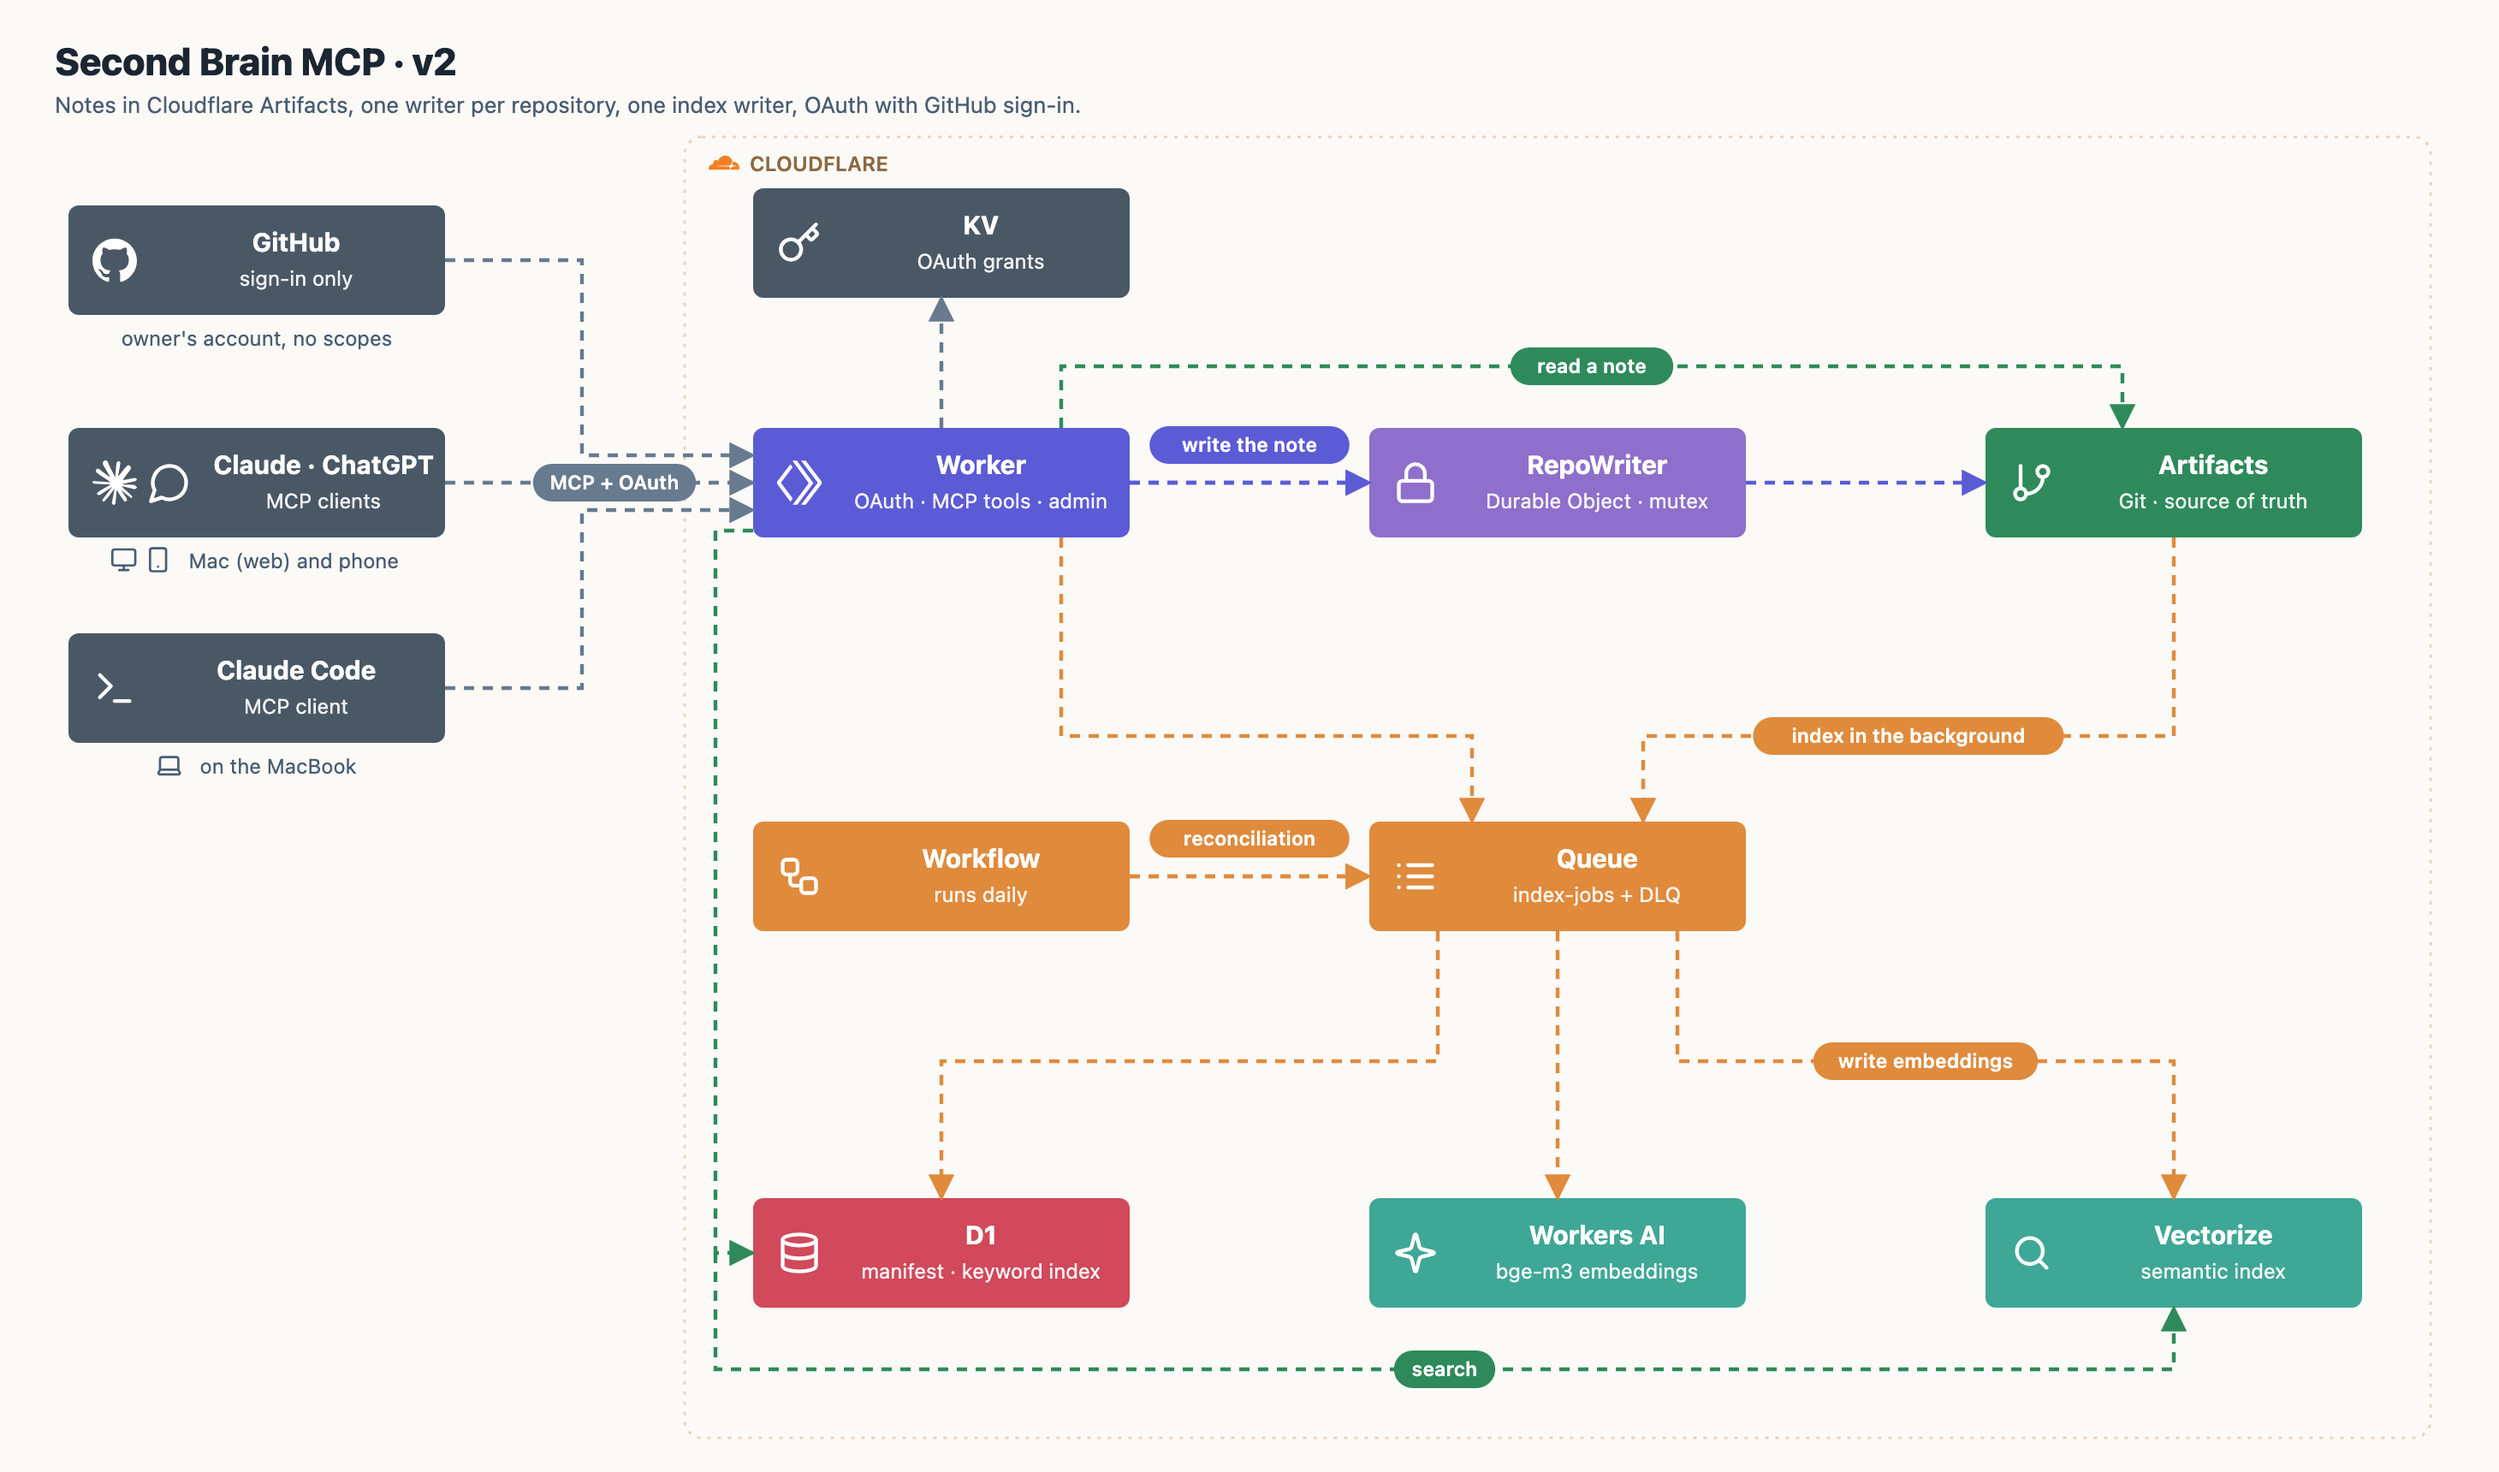
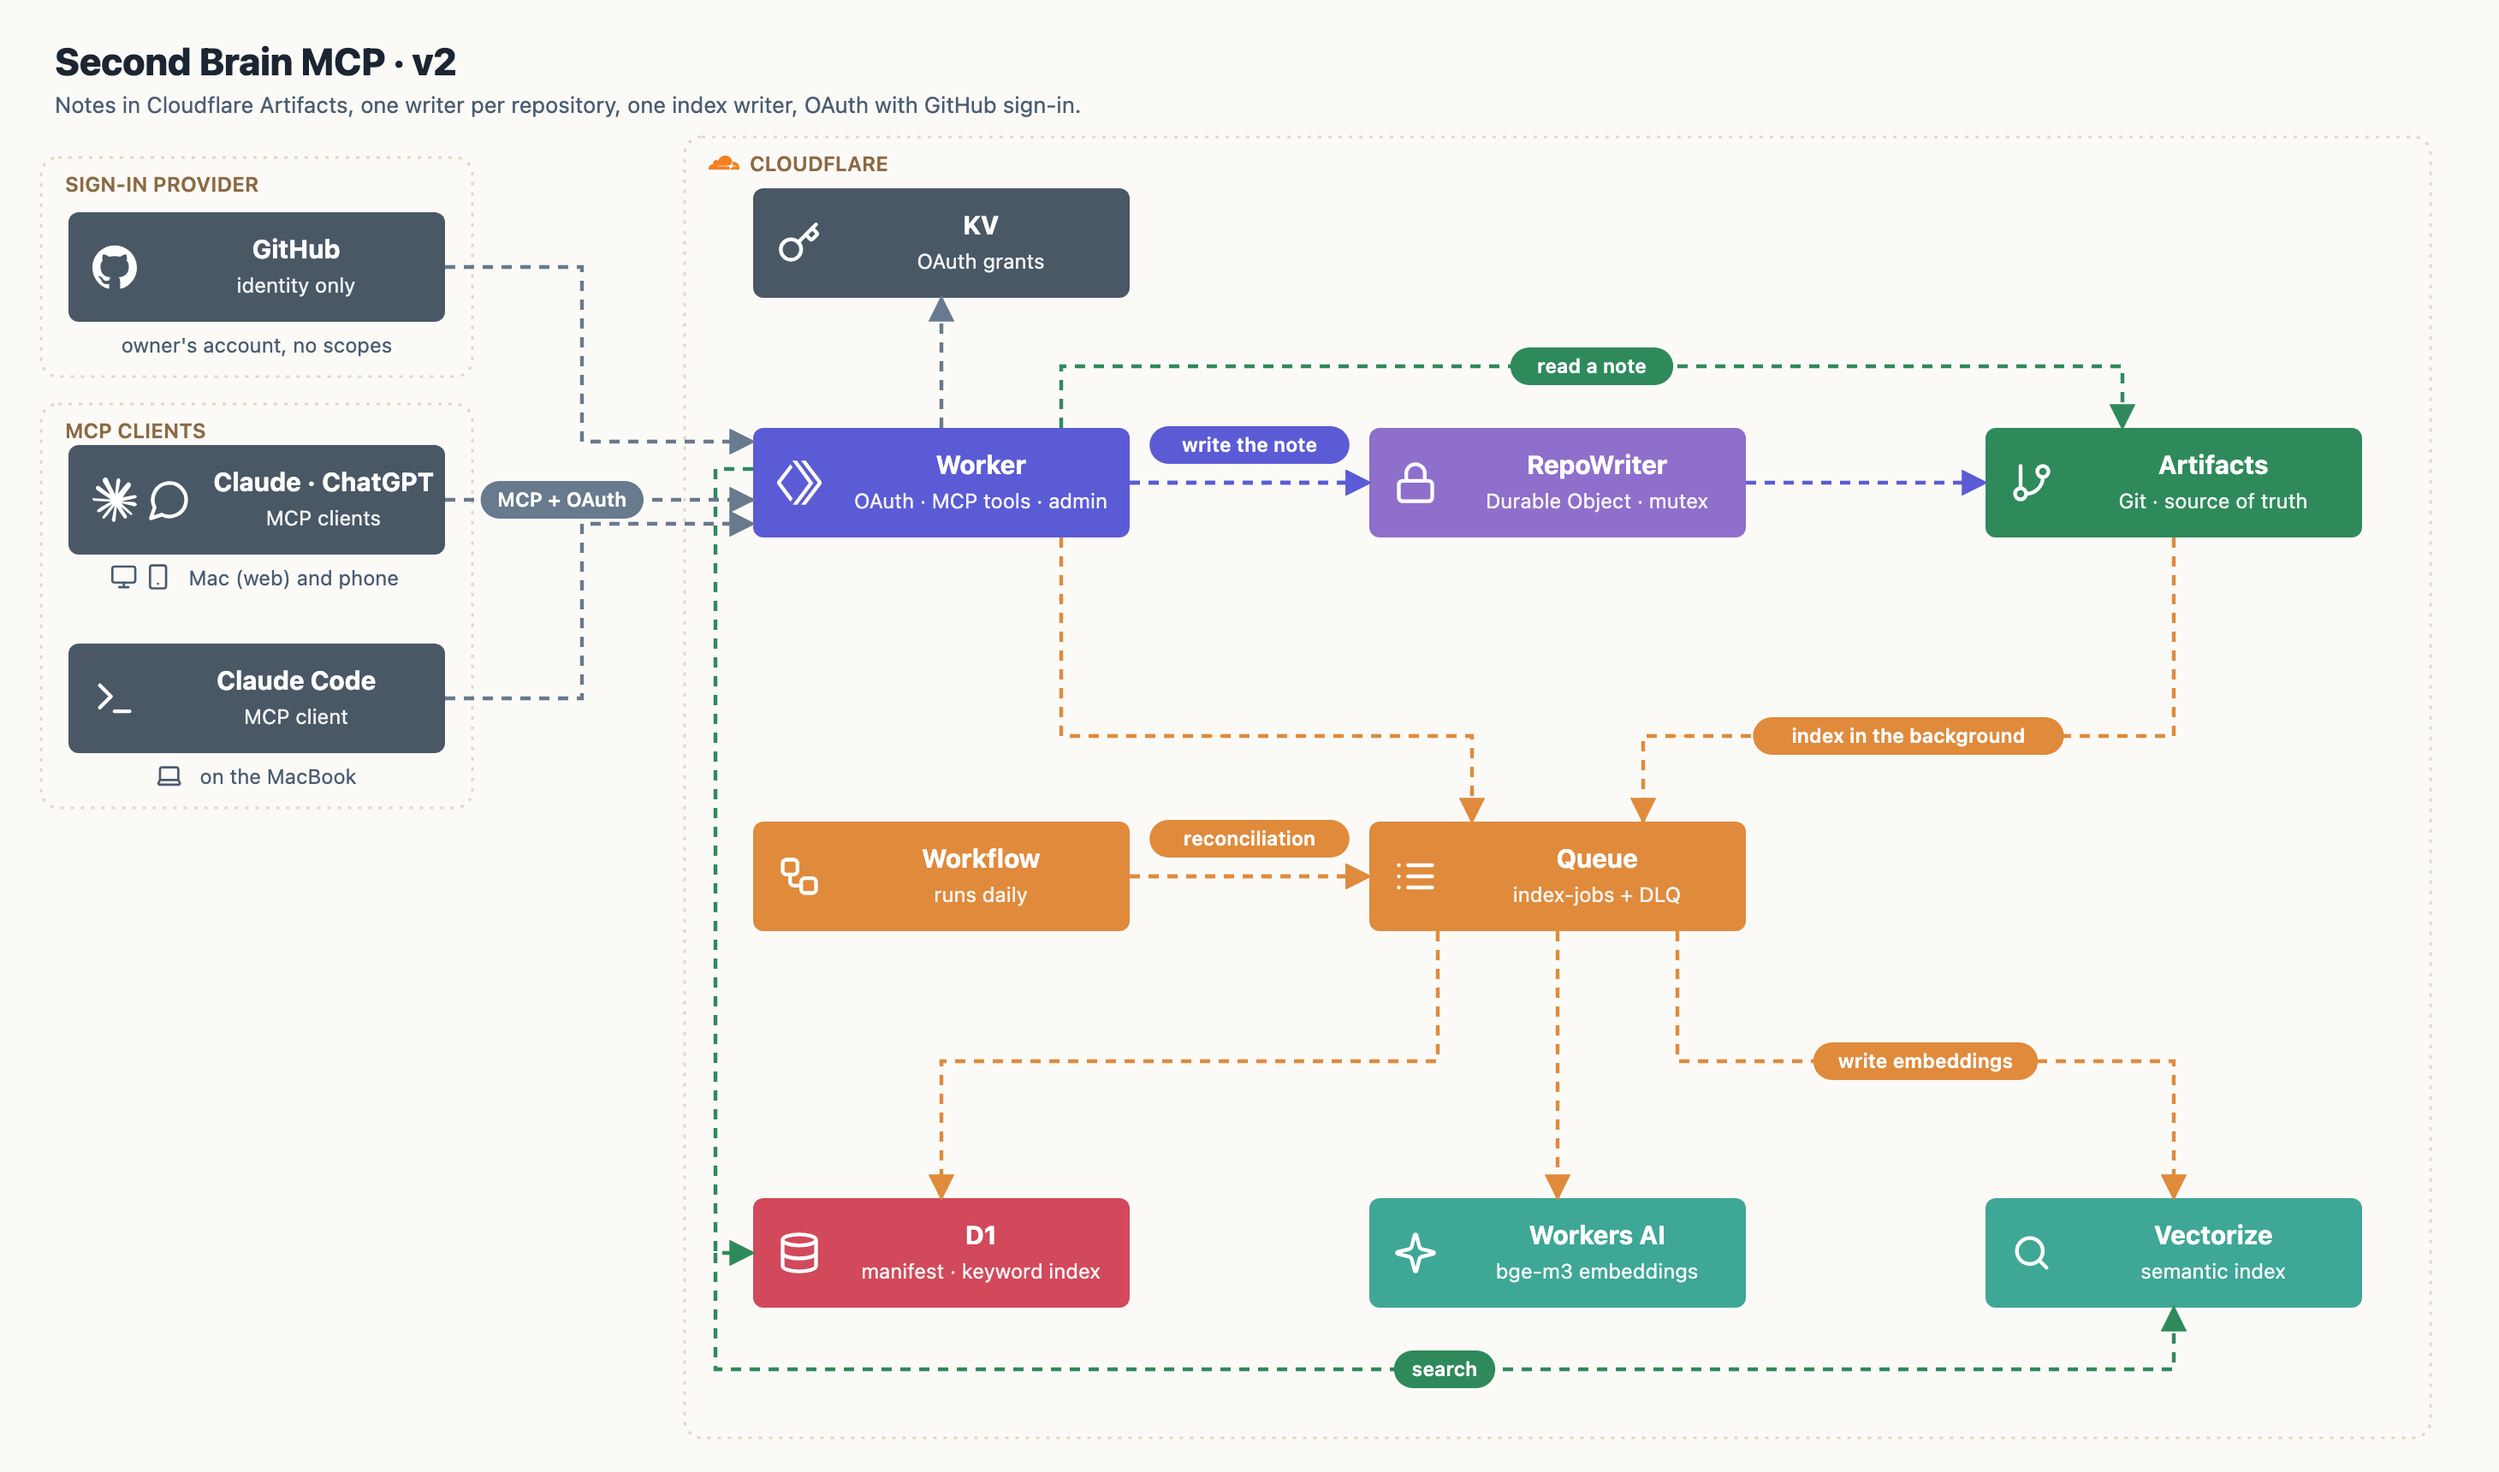
Architecture v2: GitHub apart from the MCP clients as the sign-in provider
Claude-Session: https://claude.ai/code/session_0171UdtAm1pRxwuhTFhKDhrM

diff --git a/docs/architecture/draw.py b/docs/architecture/draw.py
@@ -122,9 +122,12 @@ A, X1, X2, X3 = 40, 440, 800, 1160
 #   row 3, the indexes: D1, Workers AI (embeddings), Vectorize
 v2 = []
 v2.append('<rect x="400" y="80" width="1020" height="760" rx="10" class="g"/>' + f'<path transform="translate(414,86) scale(0.75)" d="{BRANDS["cloudflare"]}" fill="#F38020"/>' + '<text x="438" y="100" class="gl">CLOUDFLARE</text>')
-v2.append(box(A, 120, "GitHub", "sign-in only", "slate", "owner's account, no scopes", icons=("github",)))
-v2.append(box(A, 250, "Claude · ChatGPT", "MCP clients", "slate", icons=("claude", "chat")) + devices(A + 110, 332, ("monitor", "smartphone"), "Mac (web) and phone"))
-v2.append(box(A, 370, "Claude Code", "MCP client", "slate", icons=("terminal",)) + devices(A + 110, 452, ("laptop",), "on the MacBook"))
+# GitHub is only the identity provider: its own group, apart from the MCP clients
+v2.append('<rect x="24" y="92" width="252" height="128" rx="10" class="g"/><text x="38" y="112" class="gl">SIGN-IN PROVIDER</text>')
+v2.append(box(A, 124, "GitHub", "identity only", "slate", "owner's account, no scopes", icons=("github",)))
+v2.append('<rect x="24" y="236" width="252" height="236" rx="10" class="g"/><text x="38" y="256" class="gl">MCP CLIENTS</text>')
+v2.append(box(A, 260, "Claude · ChatGPT", "MCP clients", "slate", icons=("claude", "chat")) + devices(A + 110, 342, ("monitor", "smartphone"), "Mac (web) and phone"))
+v2.append(box(A, 376, "Claude Code", "MCP client", "slate", icons=("terminal",)) + devices(A + 110, 458, ("laptop",), "on the MacBook"))
 v2.append(box(X1, 110, "KV", "OAuth grants", "slate", icons=("key",)))
 # row 1
 v2.append(box(X1, 250, "Worker", "OAuth · MCP tools · admin", "indigo", icons=("workers",)))
@@ -140,9 +143,9 @@ v2.append(box(X3, 700, "Vectorize", "semantic index", "teal", icons=("search",))
 # flows: colour says which one; the name is said once, not on every arrow
 ft = lambda x, y, k, name: f'<text x="{x}" y="{y}" class="ft" fill="{FLOW[k]}">{html.escape(name)}</text>'
 # sign-in and MCP calls: the three clients bend at the same x and enter the Worker evenly spaced
-v2.append(arrow([(260, 152), (340, 152), (340, 266), (440, 266)], flow="auth"))
-v2.append(arrow([(260, 282), (440, 282)], "MCP + OAuth", at=0.55, flow="auth"))
-v2.append(arrow([(260, 402), (340, 402), (340, 298), (440, 298)], flow="auth"))
+v2.append(arrow([(260, 156), (340, 156), (340, 258), (440, 258)], flow="auth"))
+v2.append(arrow([(260, 292), (440, 292)], "MCP + OAuth", at=0.38, flow="auth"))
+v2.append(arrow([(260, 408), (340, 408), (340, 306), (440, 306)], flow="auth"))
 v2.append(arrow([(550, 250), (550, 174)], flow="auth"))
 # write the note: Worker -> RepoWriter -> Artifacts
 v2.append(arrow([(660, 282), (800, 282)], flow="write"))
@@ -158,7 +161,7 @@ v2.append(arrow([(910, 544), (910, 700)], flow="index"))
 v2.append(arrow([(980, 544), (980, 620), (1270, 620), (1270, 700)], "write embeddings", flow="index"))
 # read and search
 v2.append(arrow([(620, 250), (620, 214), (1240, 214), (1240, 250)], "read a note", at=0.5, flow="read"))
-v2.append(arrow([(440, 310), (418, 310), (418, 732), (440, 732)], flow="read"))
+v2.append(arrow([(440, 274), (418, 274), (418, 732), (440, 732)], flow="read"))
 v2.append(arrow([(418, 732), (418, 800), (1270, 800), (1270, 764)], "search", flow="read"))
 
 open(os.path.join(os.path.dirname(__file__), "v2.svg"), "w").write(svg(1460, 860, "Second Brain MCP · v2", "Notes in Cloudflare Artifacts, one writer per repository, one index writer, OAuth with GitHub sign-in.", "".join(v2)))
